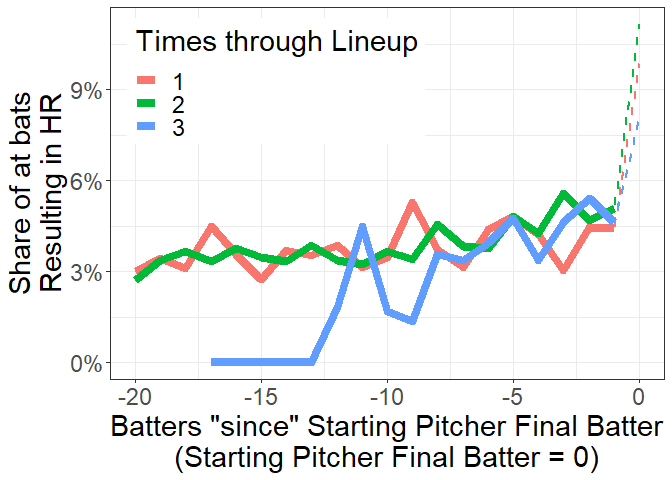
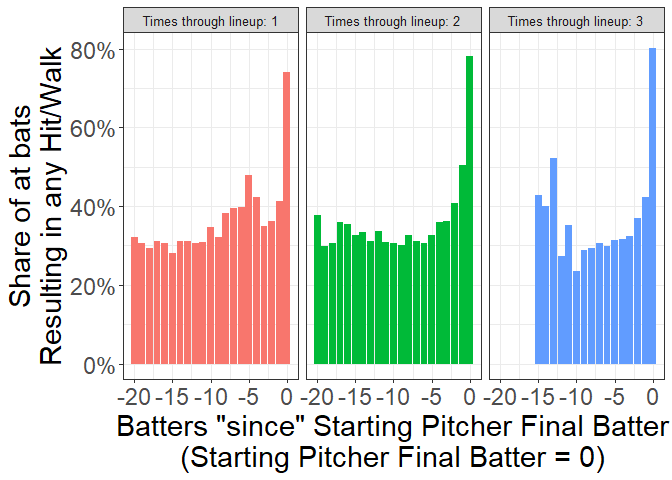
update

diff --git a/docs/_posts/2022-09-06-switching-pitchers-and-reducing-home-runs.md b/docs/_posts/2022-09-06-switching-pitchers-and-reducing-home-runs.md
@@ -40,6 +40,8 @@ out and the subsequent *higher* baseline walk rate of the relievers.
 Maybe the strategy is to pull pitchers when their expected walk
 percentage is higher than the predicted walk rate of the reliever?
 
+![](/assets/plots_hits_or_walks-1.png)
+
 ### What about number of times through the lineup?
 
 A proxy for “shortened leash” is to use starter’s number of times
@@ -48,9 +50,9 @@ through the lineup is more difficult for pitchers.
 
 ![](/assets/plots_times_thru-1.png) Splitting by times through lineup
 seems to suggest two things: (1) there might be slightly more of a
-ramping up effect in the third time through the lineup and (2) the
-percent of home runs on the final batter is *lower* on the third time
-through.
+ramping up effect in the second time through the lineup and (2) there
+seems to be some forgiveness at during the first time through the lineup
+and the start of the third time through.
 
 ## But is this the *best* strategy?
 
@@ -63,6 +65,280 @@ past batter outcome matters much less than the predicted outcome of the
 next batter. So in the end managers need to be good at predicting what
 will happen on the next batter. Seems like a perfect problem for machine
 learning.
+
+## Time series dependence of hits
+
+My first thought here is that different pitchers probably have different
+“time” dependence. Meaning that some pitchers might be better at
+bouncing back from giving up a hit than others.
+
+So first, as a baseline, how often do pitchers get outs in general? Here
+is a plot showing the distribution of starter pitchers’ share of at bats
+that end in outs. ![](/assets/baseline_outs-1.png) So the mean pitcher
+gets an out in roughly 63% of at bats. But the question now is whether
+the outcome of the previous batter predicts the outcome of the current
+batter. In other words, given that the last batter got a out, what is
+the probability that the current batter will also get out? Is that
+conditional probability greater than if the previous batter did not get
+out? To look at this question, I started by splitting my overall mean by
+the result of the previous batter.
+
+If the distribution of the starting pitcher share of at bats resulting
+in an out conditional on the previous at bat ending in an out is greater
+than conditional on the previous at bat not ending in an out, then this
+is evidence for serial correlation, since it would suggest that when the
+previous at bat was an out pitchers are more likely to get an out on the
+current at bat.
+
+Looking only at the differences:
+
+    plot_dt = dcast(dt[starting_pitcher_dummy == 1 & pitch_seq == 1 & !is.na(last_batter_result_out) ,
+       .(mean_out_current = mean(result_out)),
+       by = .( times_through_lineup, last_batter_result_out, matchup.pitcher.fullName)],
+       matchup.pitcher.fullName + times_through_lineup ~ last_batter_result_out,
+       value.var = "mean_out_current"
+    )[, .(matchup.pitcher.fullName, times_through_lineup, last_batter_result_out = `1`,last_batter_result_nonout=`0`,
+          last_out_minus_last_nonout = `1` - `0`)]
+    sum_plot_dt_1= plot_dt[times_through_lineup < 4, .(mean = mean(last_out_minus_last_nonout, na.rm=T)), by = .(times_through_lineup)]
+
+
+    ggdraw(align_legend(
+    ggplot(plot_dt[times_through_lineup < 4]) + 
+      geom_density(aes(x=100*last_out_minus_last_nonout, color = as.factor(times_through_lineup))) + 
+      theme_bw() + 
+      theme(text = element_text(size = 20), 
+            axis.text = element_text(size = 15),
+            legend.position = c(0.77,0.75),
+            legend.background = element_blank(),
+            legend.direction = "horizontal",
+            legend.title = element_text(size = 20),
+            strip.text = element_text(size = 10)) + 
+      xlab("Percentage Point Difference in\nShare of at bats resulting in an out\n(excluding sac fly and sac bunt)") + 
+      ylab("Density") + 
+      scale_x_continuous(breaks = seq(-90,90,30)) + 
+      geom_vline(data = sum_plot_dt_1,
+                 aes(xintercept = mean, color = as.factor(times_through_lineup))) + 
+      scale_color_discrete(name="Times Through Lineup", guide = guide_legend(title.position = "top")) + 
+      geom_text(aes(x=-60,y=0.025,label=paste0("Difference in\nShare of ABs resulting in an out averages:\n",
+                                            "First time through lineup: ",
+                                            100*round(sum_plot_dt_1[times_through_lineup ==1]$mean,3),
+                                            "pp\nSecond time through lineup: ",
+                                            100*round(sum_plot_dt_1[times_through_lineup ==2]$mean,3),
+                                            "pp\nThird time through lineup: ",
+                                            100*round(sum_plot_dt_1[times_through_lineup ==3]$mean,3),
+                                            "pp"
+                                            ))) 
+    )) 
+
+    ## Warning: Removed 22 rows containing non-finite values (stat_density).
+
+![](/assets/diff-1.png) The first time through the lineup, the average
+pitcher is actually slightly *less* likely to get an out on the current
+batter when the previous at bat was an out vs when the previous at bat
+was not an out. The difference is small - less than one percentage
+point. The second and third times through the lineup the magnitude of
+the average differences decreases, but the sign flips, meaning the
+average pitcher is slightly more likely to get an out on the current
+batter when the previous at bat was an out vs when it was not an out.
+
+But as is visible from the plot, the distributions are relatively spread
+out, implying there is wide variation in pitcher “streakiness”. If a
+pitcher has a high percentage of outs after getting an out last AB, but
+a low percentage of outs after not getting an out last AB, that suggests
+they are “streaky”. If they have high percentages of outs regarldess of
+what happened on last AB, they are just a good pitcher.
+
+So the question is: are the streaky pitchers equally likely to be taken
+out after a hit as the non-streaky pitchers? The idea here is to try to
+proxy for what will happen on the next at bat. If a pitcher is not
+streaky it might make sense to leave him in if the last at bat was not
+an out.
+
+    ## Warning: Removed 22 rows containing missing values (geom_point).
+
+![](/assets/pitcher_ranks-1.png) This plot gives an approximation of
+streakiness. The pitchers in the top right get a higher percentage of
+outs regardless of what happened on the last AB. They are consistently
+good. The pitchers in the bottom left quadrant on the other hand, are
+consistently bad. The players in the bottom right are the streaky
+players. They get are more likely to get an out if they got on about on
+the last AB than if they didn’t get an out on the last AB. The players
+in the top left are “reverse” streaky. They are more likely to get an
+out on the current AB if they did *not* get an out on the last AB than
+if they did get an out on the last AB.
+
+Splitting the pitchers into these four groups gives a straightforward
+way to test for differences in final AB behavior. If the streaky
+pitchers (bottom right of the above figure) give up a hit, the manager
+might be more justified in pulling them since they are less likely to
+get an out on the next AB. This means the share of hits or walks on
+streaky pitcher’s final AB should be higher than the other types of
+players.
+
+On the other hand, the “reverse” streaky players should have the lowest
+share of hits/walks on their final AB. In fact we would expect them to
+have the highest share of *outs* on their final AB, since getting an out
+for this group actually might predict that the next batter is likely to
+not get out.
+
+    ## Warning in `[.data.table`(dt, , `:=`(quantile_diff, NULL)): Column
+    ## 'quantile_diff' does not exist to remove
+
+    ## Warning in `[.data.table`(dt, , `:=`(quantile_out_out, NULL)): Column
+    ## 'quantile_out_out' does not exist to remove
+
+    ## Warning in `[.data.table`(dt, , `:=`(quantile_nonout_out, NULL)): Column
+    ## 'quantile_nonout_out' does not exist to remove
+
+    ## `geom_smooth()` using formula 'y ~ x'
+
+    ## Warning: Removed 3 rows containing non-finite values (stat_smooth).
+
+    ## Warning in qt((1 - level)/2, df): NaNs produced
+
+    ## Warning in qt((1 - level)/2, df): NaNs produced
+
+    ## Warning in qt((1 - level)/2, df): NaNs produced
+
+    ## Warning in qt((1 - level)/2, df): NaNs produced
+
+    ## Warning: Removed 3 rows containing missing values (geom_point).
+
+    ## Warning in max(ids, na.rm = TRUE): no non-missing arguments to max; returning
+    ## -Inf
+
+    ## Warning in max(ids, na.rm = TRUE): no non-missing arguments to max; returning
+    ## -Inf
+
+    ## Warning in max(ids, na.rm = TRUE): no non-missing arguments to max; returning
+    ## -Inf
+
+    ## Warning in max(ids, na.rm = TRUE): no non-missing arguments to max; returning
+    ## -Inf
+
+![](/assets/unnamed-chunk-1-1.png)
+
+    ##     batters_since_starter_max_batter times_through_lineup quantile_out_out
+    ##  1:                                0                    1                1
+    ##  2:                                0                    1                2
+    ##  3:                                0                    1                2
+    ##  4:                                0                    1                1
+    ##  5:                                0                    2                1
+    ##  6:                                0                    2                2
+    ##  7:                                0                    2                1
+    ##  8:                                0                    2                2
+    ##  9:                                0                    3                2
+    ## 10:                                0                    3                1
+    ## 11:                                0                    3                1
+    ## 12:                                0                    3                2
+    ##     quantile_nonout_out        V1        V2
+    ##  1:                   1 0.8214286 0.3149704
+    ##  2:                   2 0.5263158 0.2294157
+    ##  3:                   1 0.8333333 0.3806935
+    ##  4:                   2 0.7000000 0.0000000
+    ##  5:                   2 0.7727273 0.2908034
+    ##  6:                   1 0.8333333 0.3541688
+    ##  7:                   1 0.8095238 0.3309438
+    ##  8:                   2 0.6964286 0.2877364
+    ##  9:                   2 0.7507599 0.2883111
+    ## 10:                   2 0.8010899 0.2658308
+    ## 11:                   1 0.8379121 0.2485084
+    ## 12:                   1 0.8145897 0.2883111
+
+![](/assets/unnamed-chunk-1-2.png)![](/assets/unnamed-chunk-1-3.png)![](/assets/unnamed-chunk-1-4.png)
+My first conclusion from this figure is that all types of pitchers see a
+spike in hits or walks on their last batter. The streaky pitchers (third
+row) seem to have the biggest spike. This makes sense - managers seems
+to be doing a good job pulling these pitchers to prevent a hit or walk
+on the next AB. The “bad” pitchers (top row) have a clear ramping up
+which seems to suggest a short leash strategy by the managers. The good
+pitchers (bottom row) have the smallest spike on their last AB - again
+this makes sense since managers seem to rightfully trust that they will
+come back on the next batter.
+
+One surprising result is that the reverse streaky pitchers (row 2) also
+have a spike (though unsurprisingly, it is lower than the streaky or bad
+pitchers).
+
+We can throw this data into a regression to add controls and measure the
+spike magnitude. Just regress the indicator for hit or walk on a full
+set of “batters since pitcher final AB” indicators.
+`Non-Out ~ \Sum \beta_{\tau} 1(batter since = \tau) + \epsilon`.
+
+    for (X in seq(-15,15)){
+      print(X)
+      dt[, paste0("bs_",X) := ifelse(batters_since_starter_max_batter == X, 1, 0)]
+    }
+
+    ## [1] -15
+    ## [1] -14
+    ## [1] -13
+    ## [1] -12
+    ## [1] -11
+    ## [1] -10
+    ## [1] -9
+    ## [1] -8
+    ## [1] -7
+    ## [1] -6
+    ## [1] -5
+    ## [1] -4
+    ## [1] -3
+    ## [1] -2
+    ## [1] -1
+    ## [1] 0
+    ## [1] 1
+    ## [1] 2
+    ## [1] 3
+    ## [1] 4
+    ## [1] 5
+    ## [1] 6
+    ## [1] 7
+    ## [1] 8
+    ## [1] 9
+    ## [1] 10
+    ## [1] 11
+    ## [1] 12
+    ## [1] 13
+    ## [1] 14
+    ## [1] 15
+
+    dt[, quantiles_pasted := paste0(quantile_out_out,"-",quantile_nonout_out)]
+    dt[, teams_pasted := paste0(home_team,"-",away_team)]
+
+    reg <- lm(result_hit_or_walk ~ 
+                  as.factor(quantiles_pasted):(`bs_-15` + `bs_-14` + `bs_-13` + `bs_-12` + `bs_-11` + `bs_-10` + `bs_-9` + `bs_-8` + `bs_-7` + `bs_-6` + 
+                                                                   `bs_-5` + `bs_-4` + `bs_-3` + `bs_-2` + #`bs_-1` + 
+                 bs_0 + bs_1 + bs_2 + bs_3 + bs_4 + bs_5 + bs_6 + bs_7 + bs_8 + bs_9 + bs_10 + bs_11 + bs_12 + bs_13 + bs_14 + bs_15) +
+                 as.factor(about.inning) + as.factor(times_through_lineup) + about.isTopInning + home_team + away_team +teams_pasted+ result.awayScore + result.homeScore + pitchNumber 
+                 ,
+               data = dt[pitch_seq == 1 & batters_since_starter_max_batter %between% c(-15,15) & 
+                ((count.outs.end < 3 & batters_since_starter_max_batter == 0) |
+                   (batters_since_starter_max_batter != 0) ) &
+                  times_through_lineup < 4 &
+                  !is.na(quantile_diff) &
+                ((home_manager_total_games > 50 & about.halfInning == "top") |
+                (away_manager_total_games > 50 & about.halfInning == "bottom")),])
+    reg_dt <- data.table(summary(reg)$coefficients)
+    reg_dt[, coefs := row.names(summary(reg)$coefficients)]
+    reg_dt[, bs := as.numeric(gsub("`","",gsub(".*?:bs_","", coefs)))]
+
+    ## Warning in eval(jsub, SDenv, parent.frame()): NAs introduced by coercion
+
+    reg_dt[!is.na(bs), quantiles := gsub("as.factor.quantiles_pasted.","",gsub(":bs_.*","", coefs))]
+    reg_dt <- rbindlist(list(reg_dt, data.table(bs=rep(-1,4), quantiles = c("1-1","1-2","2-1","2-2"), Estimate = rep(0,4), `Std. Error` = rep(0,4))), fill=T)
+
+    ggplot(reg_dt[!is.na(quantiles) & bs == 0]) + 
+      geom_bar(aes(x=quantiles,y=Estimate, fill = quantiles), stat = "identity")
+
+![](/assets/reg-1.png)
+
+All this taken together seems to suggest that managers are good, but not
+perfect at predicting what will happen on the next AB (especially when
+looking at the reverse streaky pitchers). Should streaky players be
+pulled at the same frequnecy as bad pitchers? Do managers have access to
+a more accurate prediction algorithm than just pitcher streakiness? One
+more step before I show any actual machine learning predictions: lets
+see if certain managers are better than others at making predictions.
 
 ### Coding things I learned on this post
 
